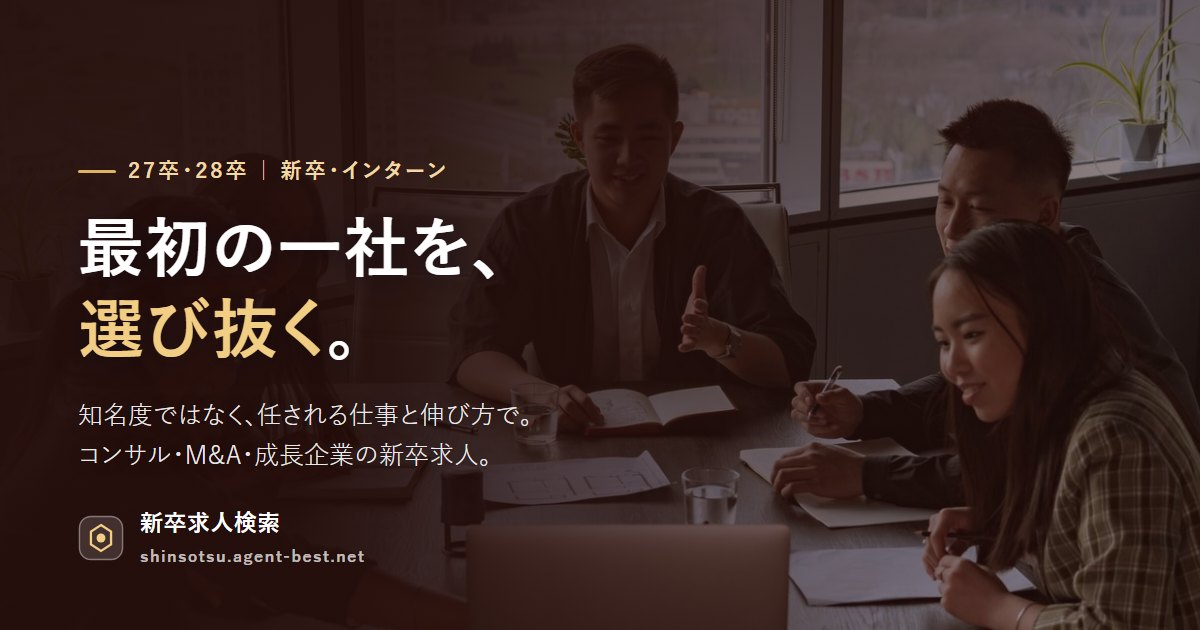
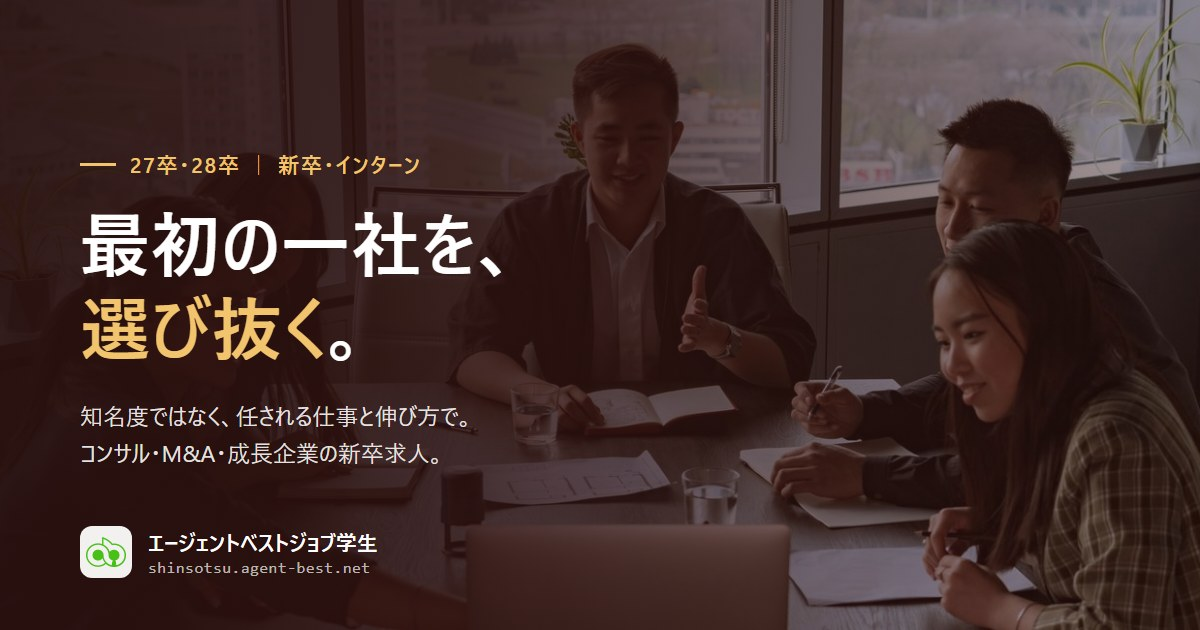
OGP画像（assets/ogp.jpg）を新ロゴ・現在のサービス名に差し替え
- 左下のマークを旧ロゴ（六角形）から新ロゴ（ロゴ素材/dist/mark.png）に変更
- サービス名を現行表記（エージェントベストジョブ転職／学生）に変更（旧画像は「求人検索」「新卒求人検索」のまま）
- 原本 tools/ogp/src.html を追加（Chromeヘッドレスで1200×630を撮影→JPG）
- HTML・テンプレートは変更なし（og:image のURLは同じ）

diff --git a/tools/ogp/src.html b/tools/ogp/src.html
@@ -1,0 +1,32 @@
+<!doctype html>
+<html lang="ja"><head><meta charset="utf-8">
+<!-- OGP画像 assets/ogp.jpg（1200×630）の原本。再出力は Chrome ヘッドレスで PNG に撮って JPG に変換する（手順は skill の tools/ogp と同じ） -->
+<style>
+  html,body{margin:0;width:1200px;height:630px;overflow:hidden}
+  body{font-family:"Yu Gothic UI","Yu Gothic","Meiryo",sans-serif;color:#fff;position:relative;
+    background:url("../../assets/hero.jpg") center/cover no-repeat}
+  .scrim{position:absolute;inset:0;background:linear-gradient(96deg,rgba(40,16,14,.95) 0%,rgba(46,18,16,.88) 38%,rgba(52,22,18,.62) 66%,rgba(56,24,20,.40) 100%)}
+  .in{position:absolute;left:80px;top:150px;right:80px}
+  .eye{font-size:21px;font-weight:700;letter-spacing:.08em;color:#F2C46D;display:flex;align-items:center;gap:14px;margin:0 0 22px}
+  .eye::before{content:"";width:36px;height:3px;background:#F2C46D;display:block}
+  h1{margin:0;font-size:70px;line-height:1.2;font-weight:800;letter-spacing:.01em}
+  h1 em{font-style:normal;color:#F2C46D}
+  .sub{margin:30px 0 0;font-size:23px;line-height:1.6;color:rgba(255,255,255,.88)}
+  .brand{position:absolute;left:80px;bottom:52px;display:flex;align-items:center;gap:16px}
+  .brand .tile{width:52px;height:52px;border-radius:12px;background:rgba(255,255,255,.94);display:flex;align-items:center;justify-content:center}
+  .brand .tile img{width:40px;height:auto;display:block}
+  .brand b{display:block;font-size:21px}
+  .brand span{display:block;font-size:16px;color:rgba(255,255,255,.7);font-family:Consolas,monospace;letter-spacing:.03em;margin-top:2px}
+</style></head>
+<body>
+  <div class="scrim"></div>
+  <div class="in">
+    <p class="eye">27卒・28卒 ｜ 新卒・インターン</p>
+    <h1>最初の一社を、<br><em>選び抜く</em>。</h1>
+    <p class="sub">知名度ではなく、任される仕事と伸び方で。<br>コンサル・M&amp;A・成長企業の新卒求人。</p>
+  </div>
+  <div class="brand">
+    <div class="tile"><img src="../../assets/mark.png" alt=""></div>
+    <div><b>エージェントベストジョブ学生</b><span>shinsotsu.agent-best.net</span></div>
+  </div>
+</body></html>
